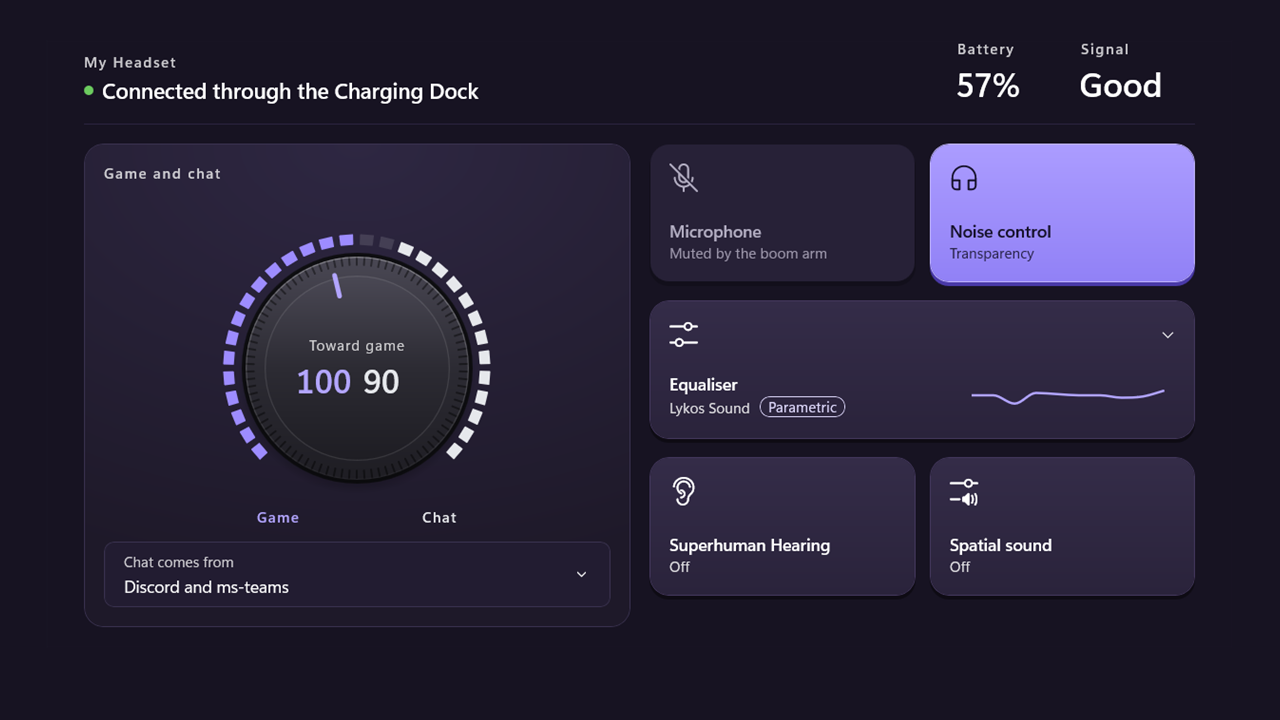
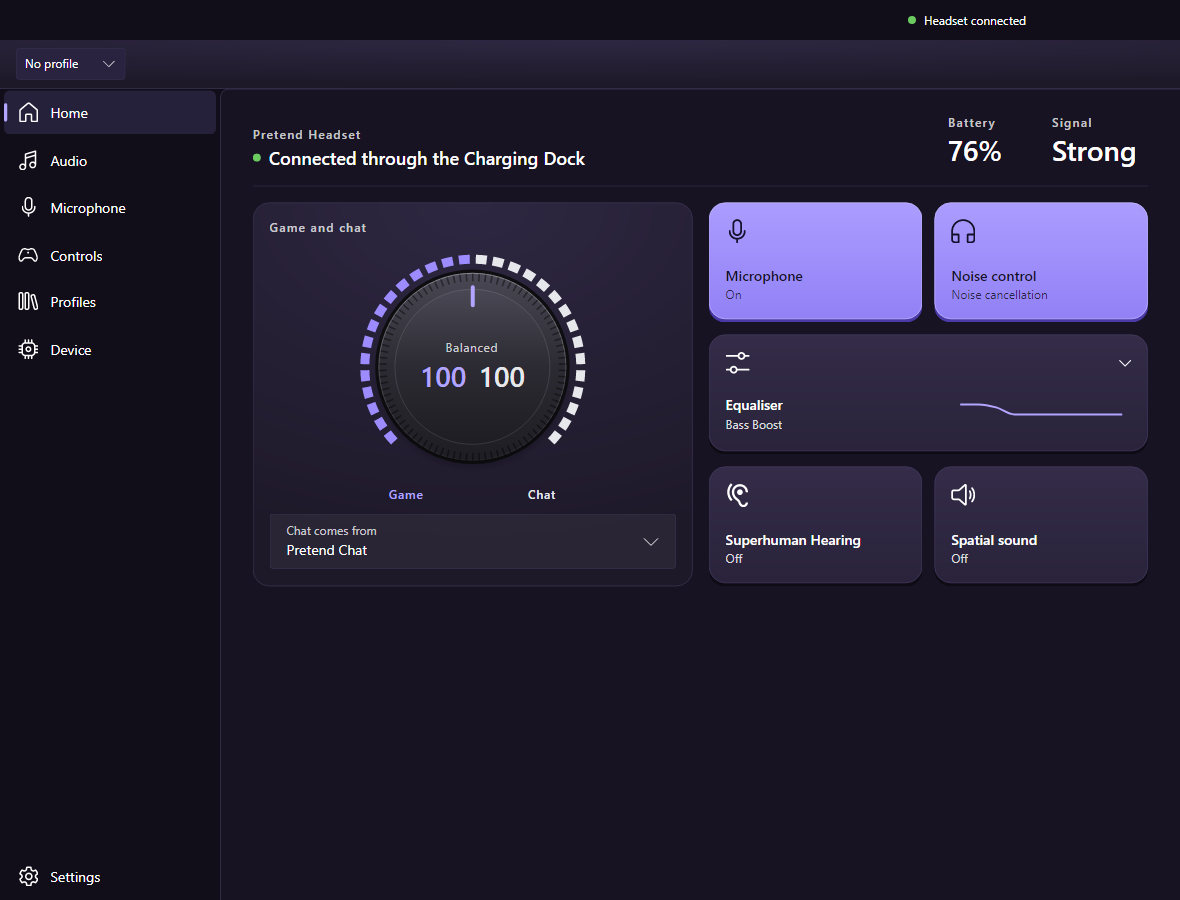
Show the new app in the README
The five pictures were of the earlier Windows app, and the one of Profiles was
of a page that no longer exists. They are retaken from the new app against the
pretend headset, with captions that say only what each one shows. The
transparency picture becomes an Audio page picture, since the headset in
pretend mode starts with noise cancellation on.

diff --git a/README.md b/README.md
@@ -34,7 +34,7 @@ Move it with the headset's chat wheel, the dial on Home, or the keyboard
 from inside a game: Ctrl + Alt + Page Down, Page Up and Home, all
 rebindable.
 
-![Home, with the game and chat dial mixing Discord and Teams against the game, and noise control in transparency.](docs/screenshots/mix.png)
+![Home, with the game and chat dial, a chat app chosen, and tiles for the microphone, noise control and equaliser.](docs/screenshots/mix.png)
 
 ### Transparency
 
@@ -43,7 +43,7 @@ transparency mode of its own; transparency is noise cancellation at zero,
 which lets the room in. The Mode button steps through all three while Neap
 is running.
 
-![The Audio page, with noise control set to transparency.](docs/screenshots/transparency.png)
+![The Audio page, with noise control set to noise cancellation and how much of the room it blocks.](docs/screenshots/audio.png)
 
 ### An equaliser you can tune by ear
 
@@ -62,7 +62,7 @@ Save your whole setup under a name, from noise control to both equalisers.
 Give a profile one or more games, and it comes on when one of them starts,
 then goes back to your default when it closes.
 
-![Settings, with a default profile and a second profile for gaming.](docs/screenshots/profiles.png)
+![The Profiles page, with a default profile and a second profile for a game.](docs/screenshots/profiles.png)
 
 ### The Charging Dock
 
@@ -71,7 +71,7 @@ brightness of both lights, and choose the audio format. Neap can also put
 the dock back into high-resolution audio after an app has used the
 microphone.
 
-![The Device page, with the Charging Dock in use, its spare battery at 100% and the brightness of both its lights.](docs/screenshots/dock.png)
+![The Device page, with the Charging Dock in use, its spare battery and the brightness of both its lights.](docs/screenshots/dock.png)
 
 ### Everything else
 
